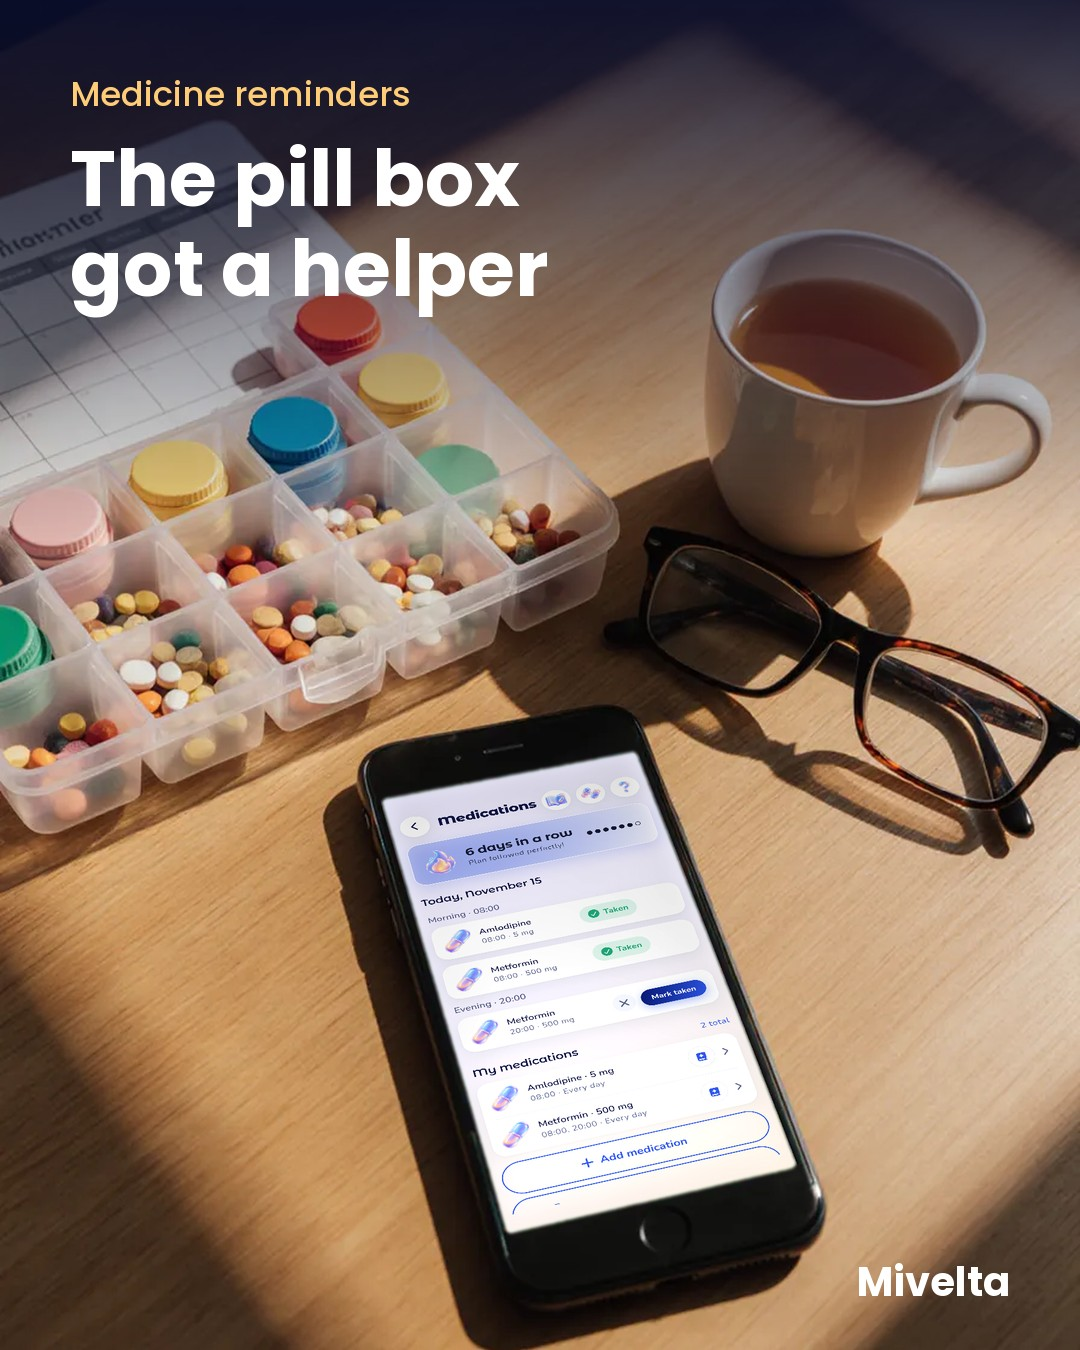
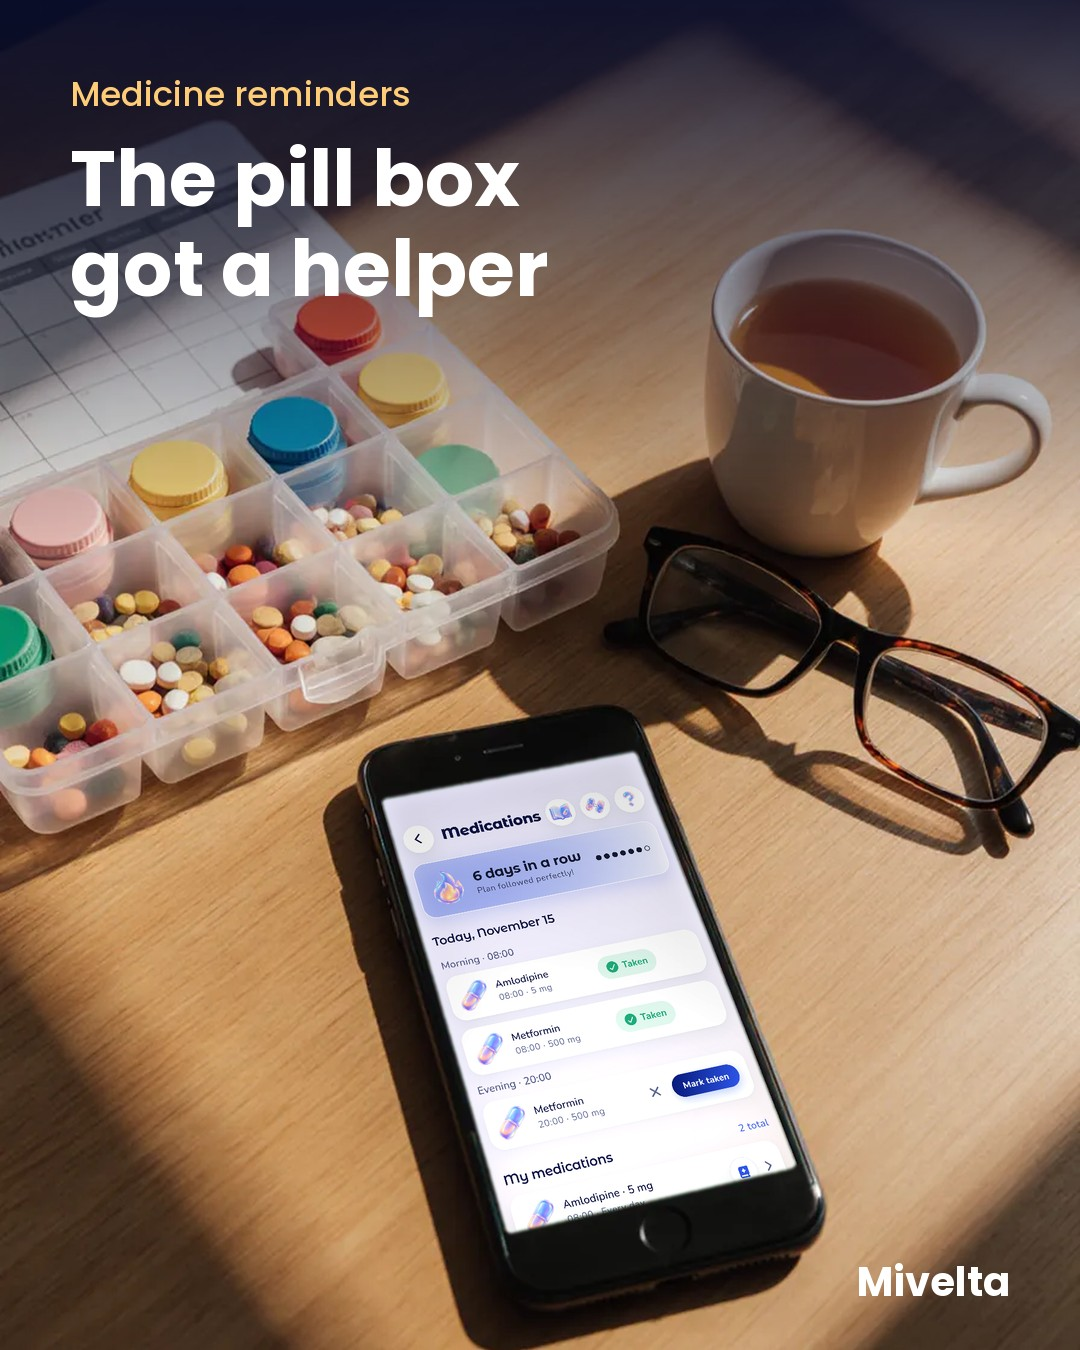
Life-style posts: the app's screen at its true proportions; the lab cover on an upright phone
Claude-Session: https://claude.ai/code/session_01WfY46PZ3Y6DVex8swwpvyy

Changed region(s): [[0.3667, 0.5911, 0.7333, 0.9333]]

diff --git a/scripts/life.py b/scripts/life.py
@@ -29,6 +29,14 @@ def on_screen(photo, shot, scale=2):
     quad = np.array([(xs[i], ys[i]) for i in (np.argmin(xs + ys), np.argmax(xs - ys), np.argmax(xs + ys), np.argmin(xs - ys))], float)
     c = quad.mean(0); quad = c + (quad - c) * 1.035            # past the rounded corners
     s = Image.open(SC + shot).convert('RGB'); w, h = s.size; rows, rhs = [], []
+    # The phone in the photo is not as tall as the one the screenshot was taken on: show the top of
+    # the screen at its true proportions, never squeezed to fit.
+    side = lambda i, j: float(np.hypot(*(quad[i] - quad[j])))
+    ratio = (side(0, 1) + side(3, 2)) / (side(0, 3) + side(1, 2))
+    if w / h < ratio:
+        h = int(w / ratio); s = s.crop((0, 0, w, h))
+    else:
+        nw = int(h * ratio); s = s.crop(((w - nw) // 2, 0, (w - nw) // 2 + nw, h)); w = nw
     for (x, y), (u, v) in zip(quad, [(0, 0), (w, 0), (w, h), (0, h)]):
         rows += [[x, y, 1, 0, 0, 0, -u * x, -u * y], [0, 0, 0, x, y, 1, -v * x, -v * y]]; rhs += [u, v]
     warped = s.transform(p.size, Image.PERSPECTIVE, tuple(np.linalg.solve(np.array(rows), np.array(rhs))), Image.BICUBIC)

diff --git a/scripts/make_week_2026_11_21.py b/scripts/make_week_2026_11_21.py
@@ -41,6 +41,6 @@ words(c, 70, 1010, '150 minutes a week · WHO', '22 minutes a day.\nBetter toget
 R = (1080, 1920)
 p, q = on_screen('hand_train_11.webp', 'today.png'); c = frame(p, R, centre=q[:, 0].mean()); shade(c, bottom=0.94, start=0.42)
 words(c, 70, 1330, 'One-minute tour', "Your family's health,\nin one app"); mark(c, y=1590); save(c, 'posts/2026-11-15/cover_tour_photo.jpg')
-p, q = on_screen('hand_train_3.webp', 'lab_result.png'); c = frame(p, R, centre=q[:, 0].mean()); shade(c, top=0.92, start=0.4)
-words(c, 70, 290, 'Lab results', 'A lab sheet,\nin plain words'); mark(c, y=1590); save(c, 'posts/2026-11-17/cover_labs_photo.jpg')
+p, q = on_screen('hand_home_3.webp', 'lab_result.png'); c = frame(p, R, centre=q[:, 0].mean()); shade(c, bottom=0.94, start=0.42)
+words(c, 70, 1330, 'Lab results', 'A lab sheet,\nin plain words'); mark(c, y=1590); save(c, 'posts/2026-11-17/cover_labs_photo.jpg')
 print('ok')
